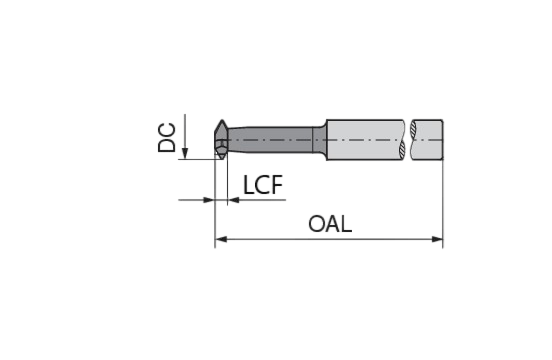
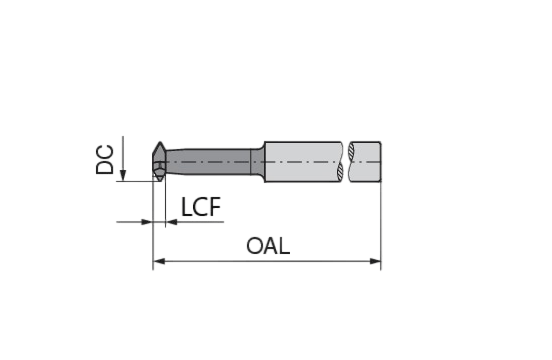
edited tool section

Changed region(s): [[0.154, 0.3056, 0.8315, 0.7333]]

diff --git a/src/components/tool/ToolGroupModal_ADD.jsx b/src/components/tool/ToolGroupModal_ADD.jsx
@@ -78,34 +78,36 @@ export const ToolGroupModal_ADD = ({ open, onClose }) => {
                       label="Type of tool group"
                       onChange={onChange}
                     >
-                      <MenuItem value={'end_mill'}>End mill</MenuItem>
-                      <MenuItem value={'radius_end_mill'}>Radius end mill</MenuItem>
+                      <MenuItem value={'ball_cutter'}>Ball cutter</MenuItem>
                       <MenuItem value={'ball_end_mill'}>Ball end mill</MenuItem>
-                      <MenuItem value={'milling_cutter_head'}>Milling cutter head</MenuItem>
+                      <MenuItem value={'boring_bar'}>Boring bar</MenuItem>
+                      <MenuItem value={'chamfer_drill'}>Chamfer drill</MenuItem>
+                      <MenuItem value={'conical_hole_deepener'}>Conical hole deepener</MenuItem>
+                      <MenuItem value={'counterbore_drill'}>Counterbore drill</MenuItem>
+                      <MenuItem value={'countersink'}>Countersink</MenuItem>
                       <MenuItem value={'dovetail_end_mill'}>Dovetail end mill</MenuItem>
-                      <MenuItem value={'tapered_end_mill'}>Tapered end mill</MenuItem>
+                      <MenuItem value={'drill'}>Drill</MenuItem>
+                      <MenuItem value={'end_mill'}>End mill</MenuItem>
+                      <MenuItem value={'engraving_cutter'}>Engraving cutter</MenuItem>
+                      <MenuItem value={'milling_cutter_head'}>Milling cutter head</MenuItem>
+                      <MenuItem value={'milling_cutters'}>Milling cutters</MenuItem>
+                      <MenuItem value={'others'}>Others</MenuItem>
+                      <MenuItem value={'quartering_cutter'}>Quartering cutter</MenuItem>
+                      <MenuItem value={'radius_end_mill'}>Radius end mill</MenuItem>
+                      <MenuItem value={'reamer'}>Reamer</MenuItem>
                       <MenuItem value={'rounded_tapered_end_mill'}>
                         Rounded tapered end mill
                       </MenuItem>
+                      <MenuItem value={'saw'}>Saw</MenuItem>
                       <MenuItem value={'t_slot_milling_cutter'}>T-slot milling cutter</MenuItem>
-                      <MenuItem value={'ball_cutter'}>Ball cutter</MenuItem>
-                      <MenuItem value={'engraving_cutter'}>Engraving cutter</MenuItem>
-                      <MenuItem value={'counterbore_drill'}>Counterbore drill</MenuItem>
-                      <MenuItem value={'countersink'}>Countersink</MenuItem>
-                      <MenuItem value={'drill'}>Drill</MenuItem>
-                      <MenuItem value={'chamfer_drill'}>Chamfer drill</MenuItem>
-                      <MenuItem value={'tap'}>Tap</MenuItem>
-                      <MenuItem value={'reamer'}>Reamer</MenuItem>
-                      <MenuItem value={'boring_bar'}>Boring bar</MenuItem>
-                      <MenuItem value={'thread_milling_cutter'}>Thread milling cutter</MenuItem>
+                      <MenuItem value={'tapered_end_mill'}>Tapered end mill</MenuItem>
                       <MenuItem value={'tapered_thread_milling_cutter'}>
                         Tapered thread milling cutter
                       </MenuItem>
-                      <MenuItem value={'saw'}>Saw</MenuItem>
-                      <MenuItem value={'milling_cutters'}>Milling cutters</MenuItem>
+                      <MenuItem value={'thread_milling_cutter'}>Thread milling cutter</MenuItem>
+                      <MenuItem value={'tap'}>Tap</MenuItem>
                       <MenuItem value={'turning_inserts'}>Turning inserts</MenuItem>
                       <MenuItem value={'turning_tools'}>Turning tools</MenuItem>
-                      <MenuItem value={'others'}>Others</MenuItem>
                     </Select>
                     {error && <p className={styles.error}>{error.message}</p>}
                   </FormControl>

diff --git a/src/components/tool/ToolModal_ADD.jsx b/src/components/tool/ToolModal_ADD.jsx
@@ -10,6 +10,9 @@ import { Dimensions } from './Dimensions';
 import { toolValidationSchema } from './validationSchema/toolValidationSchema';
 import { useDispatch } from 'react-redux';
 import { toolManager } from './service/toolManager';
+import Lottie from 'lottie-react';
+import animation from '../../assets/Lottie/add.json';
+import TextareaAutosize from '@mui/base/TextareaAutosize';
 
 export const ToolModal_ADD = ({ open, onClose, item }) => {
   const { handleSubmit, control, reset } = useForm({
@@ -22,7 +25,8 @@ export const ToolModal_ADD = ({ open, onClose, item }) => {
       min_quantity: '',
       price: '',
       tool_id: '',
-      e_shop_link: ''
+      e_shop_link: '',
+      additional_info: ''
     },
     resolver: yupResolver(toolValidationSchema)
   });
@@ -47,13 +51,20 @@ export const ToolModal_ADD = ({ open, onClose, item }) => {
   return ReactDom.createPortal(
     <div className={styles.modal_container}>
       <div className={styles.modal}>
-        <img src={require('../../assets/tool_diameter.png')} alt="Tool diameter" />
+        {item.toolGroupType === 'others' ? (
+          <Lottie animationData={animation} loop={true} className={styles.modal_animation} />
+        ) : (
+          <img
+            src={require(`../../assets/tool_dimension/${item.toolGroupType}.png`)}
+            alt="Tool diameter"
+          />
+        )}
         <div className={styles.modal_header}>
           <h2>Tool details</h2>
         </div>
         <form onSubmit={handleSubmit(handleForm)}>
           <Dimensions control={control} />
-          <Stack spacing={1} mt={2} mb={2} className={styles.login_content} direction="row">
+          <Stack spacing={1} mt={2} mb={1} className={styles.login_content} direction="row">
             <Controller
               name="quantity"
               control={control}
@@ -102,6 +113,33 @@ export const ToolModal_ADD = ({ open, onClose, item }) => {
                   InputProps={{
                     endAdornment: <InputAdornment position="end">PLN</InputAdornment>
                   }}
+                />
+              )}
+            />
+          </Stack>
+          <Stack spacing={1} mb={1}>
+            <Controller
+              name="additional_info"
+              control={control}
+              render={({ field: { onBlur, onChange, value }, fieldState: { error } }) => (
+                <TextareaAutosize
+                  onBlur={onBlur}
+                  onChange={onChange}
+                  value={value}
+                  placeholder="Additional info"
+                  minRows={2}
+                  maxRows={3}
+                  style={{
+                    width: '100%',
+                    padding: '10px',
+                    borderRadius: '5px',
+                    border: '1px solid #ccc',
+                    resize: 'none',
+                    outline: 'none',
+                    backgroundColor: 'inherit'
+                  }}
+                  error={error}
+                  hellperText={error ? error.message : null}
                 />
               )}
             />

diff --git a/src/components/tool/ToolGroupItemDetails.jsx b/src/components/tool/ToolGroupItemDetails.jsx
@@ -46,7 +46,8 @@ export const ToolGroupItemDetails = () => {
       <Breadcrumbs
         className={styles.breadcrumbs}
         aria-label="breadcrumb"
-        separator={<Typography color="text.primary">/</Typography>}>
+        separator={<Typography color="text.primary">/</Typography>}
+      >
         <Typography color="text.primary">...</Typography>
         <Typography color="text.primary">
           <Link to="/tools" className={styles.link}>
@@ -63,7 +64,8 @@ export const ToolGroupItemDetails = () => {
       <SpeedDial
         icon={<SpeedDialIcon openIcon={<EditIcon />} />}
         ariaLabel="Navigation speed dial"
-        sx={speedDialStyles}>
+        sx={speedDialStyles}
+      >
         <SpeedDialAction
           icon={<AddIcon />}
           tooltipTitle="Create"

diff --git a/src/components/tool/ToolGroupList.jsx b/src/components/tool/ToolGroupList.jsx
@@ -53,7 +53,7 @@ export const ToolGroupList = () => {
           }}
         ></TextField>
       </Tooltip>
-      <div className={styles.material_container}>
+      <div className={styles.tool_container}>
         {isLoading && <Loader />}
         {isError && <Error message={'Failed to fetch tool list. Please try again later!'} />}
         {!isError && !isLoading && <Result data={data.length ? data : []} query={query} />}

diff --git a/src/components/tool/ToolGroupItem.jsx b/src/components/tool/ToolGroupItem.jsx
@@ -50,7 +50,10 @@ export const ToolGroupItem = ({ tool }) => {
             sx={{
               height: 150,
               objectFit: 'contain',
-              position: 'center'
+              position: 'center',
+              padding: '10px',
+              borderBottom: 'thin solid #e8e8e8',
+              backgroundColor: '#f5f5f5'
             }}
           />
           <CardContent className={styles.item_content}>

diff --git a/src/components/tool/validationSchema/toolValidationSchema.js b/src/components/tool/validationSchema/toolValidationSchema.js
@@ -17,6 +17,7 @@ export const toolValidationSchema = object().shape({
     .min(0, 'Must be greater than 0')
     .required('Required'),
   tool_id: string(),
+  additional_info: string(),
   name: string().required('Required'),
   e_shop_link: string()
 });

diff --git a/src/components/tool/css/ToolGroupList.module.css b/src/components/tool/css/ToolGroupList.module.css
@@ -2,7 +2,7 @@
   margin-top: 16px;
   margin-bottom: 20px;
 }
-.material_container {
+.tool_container {
   display: flex;
   gap: 16px;
   flex-wrap: wrap;
